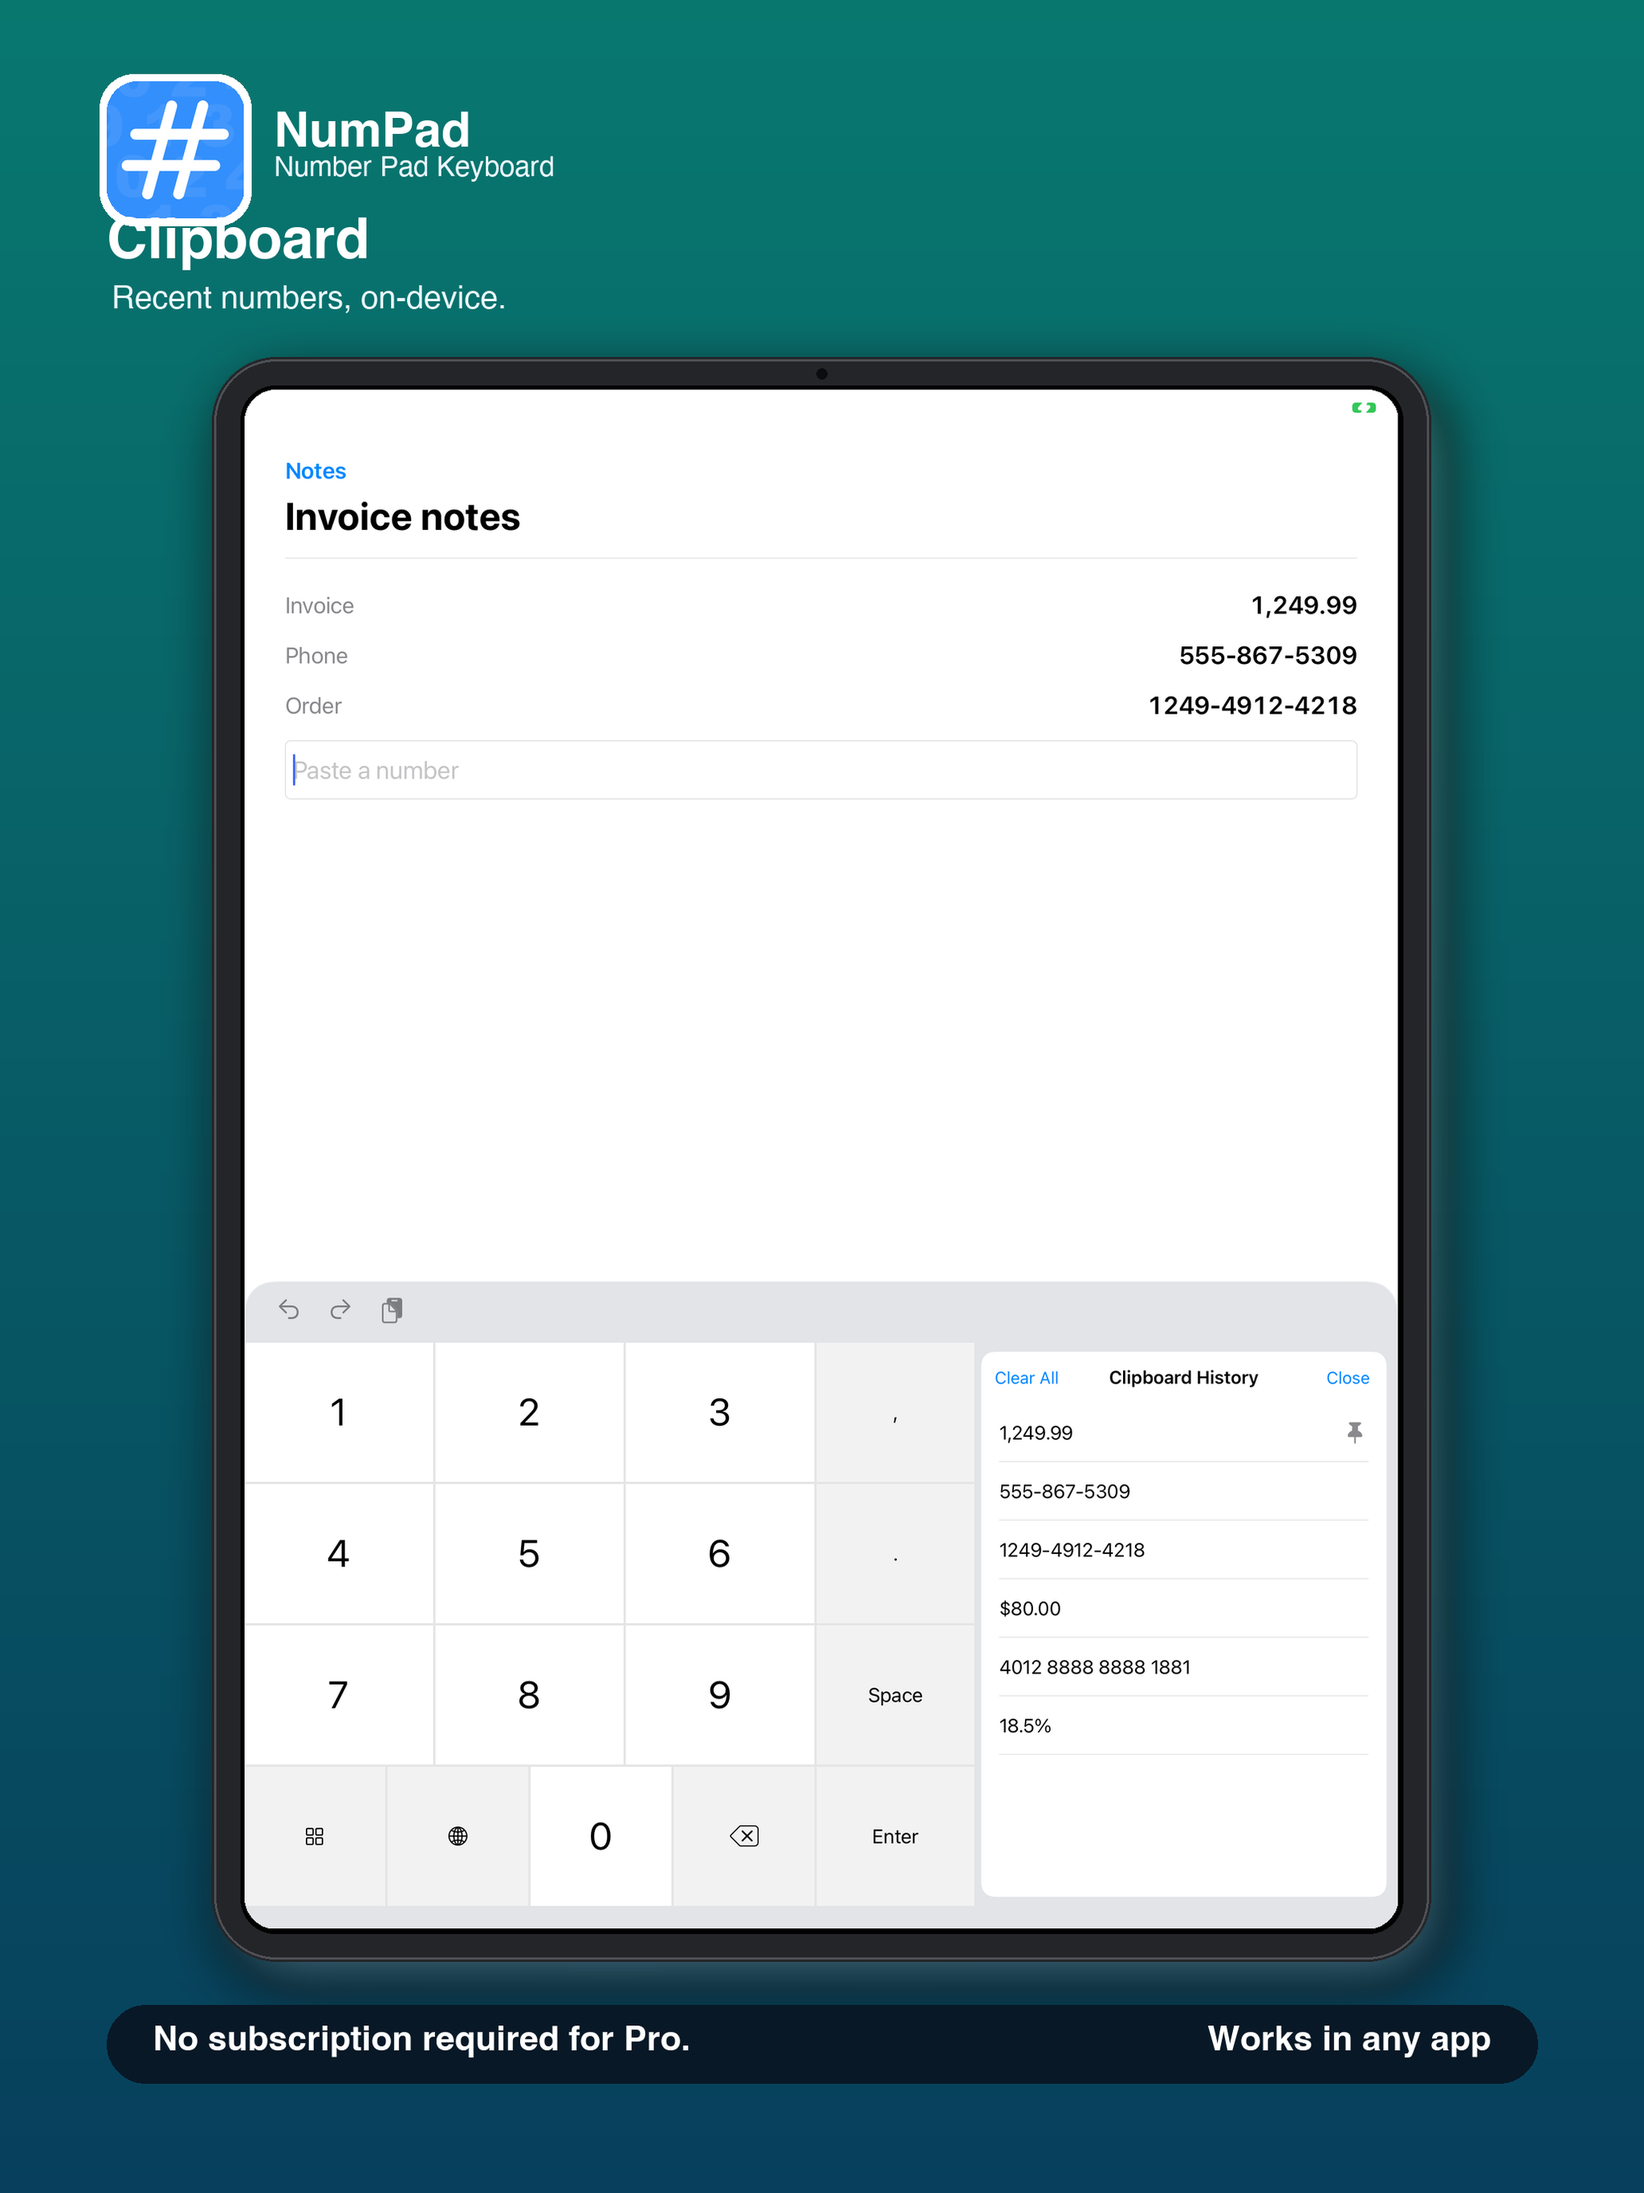
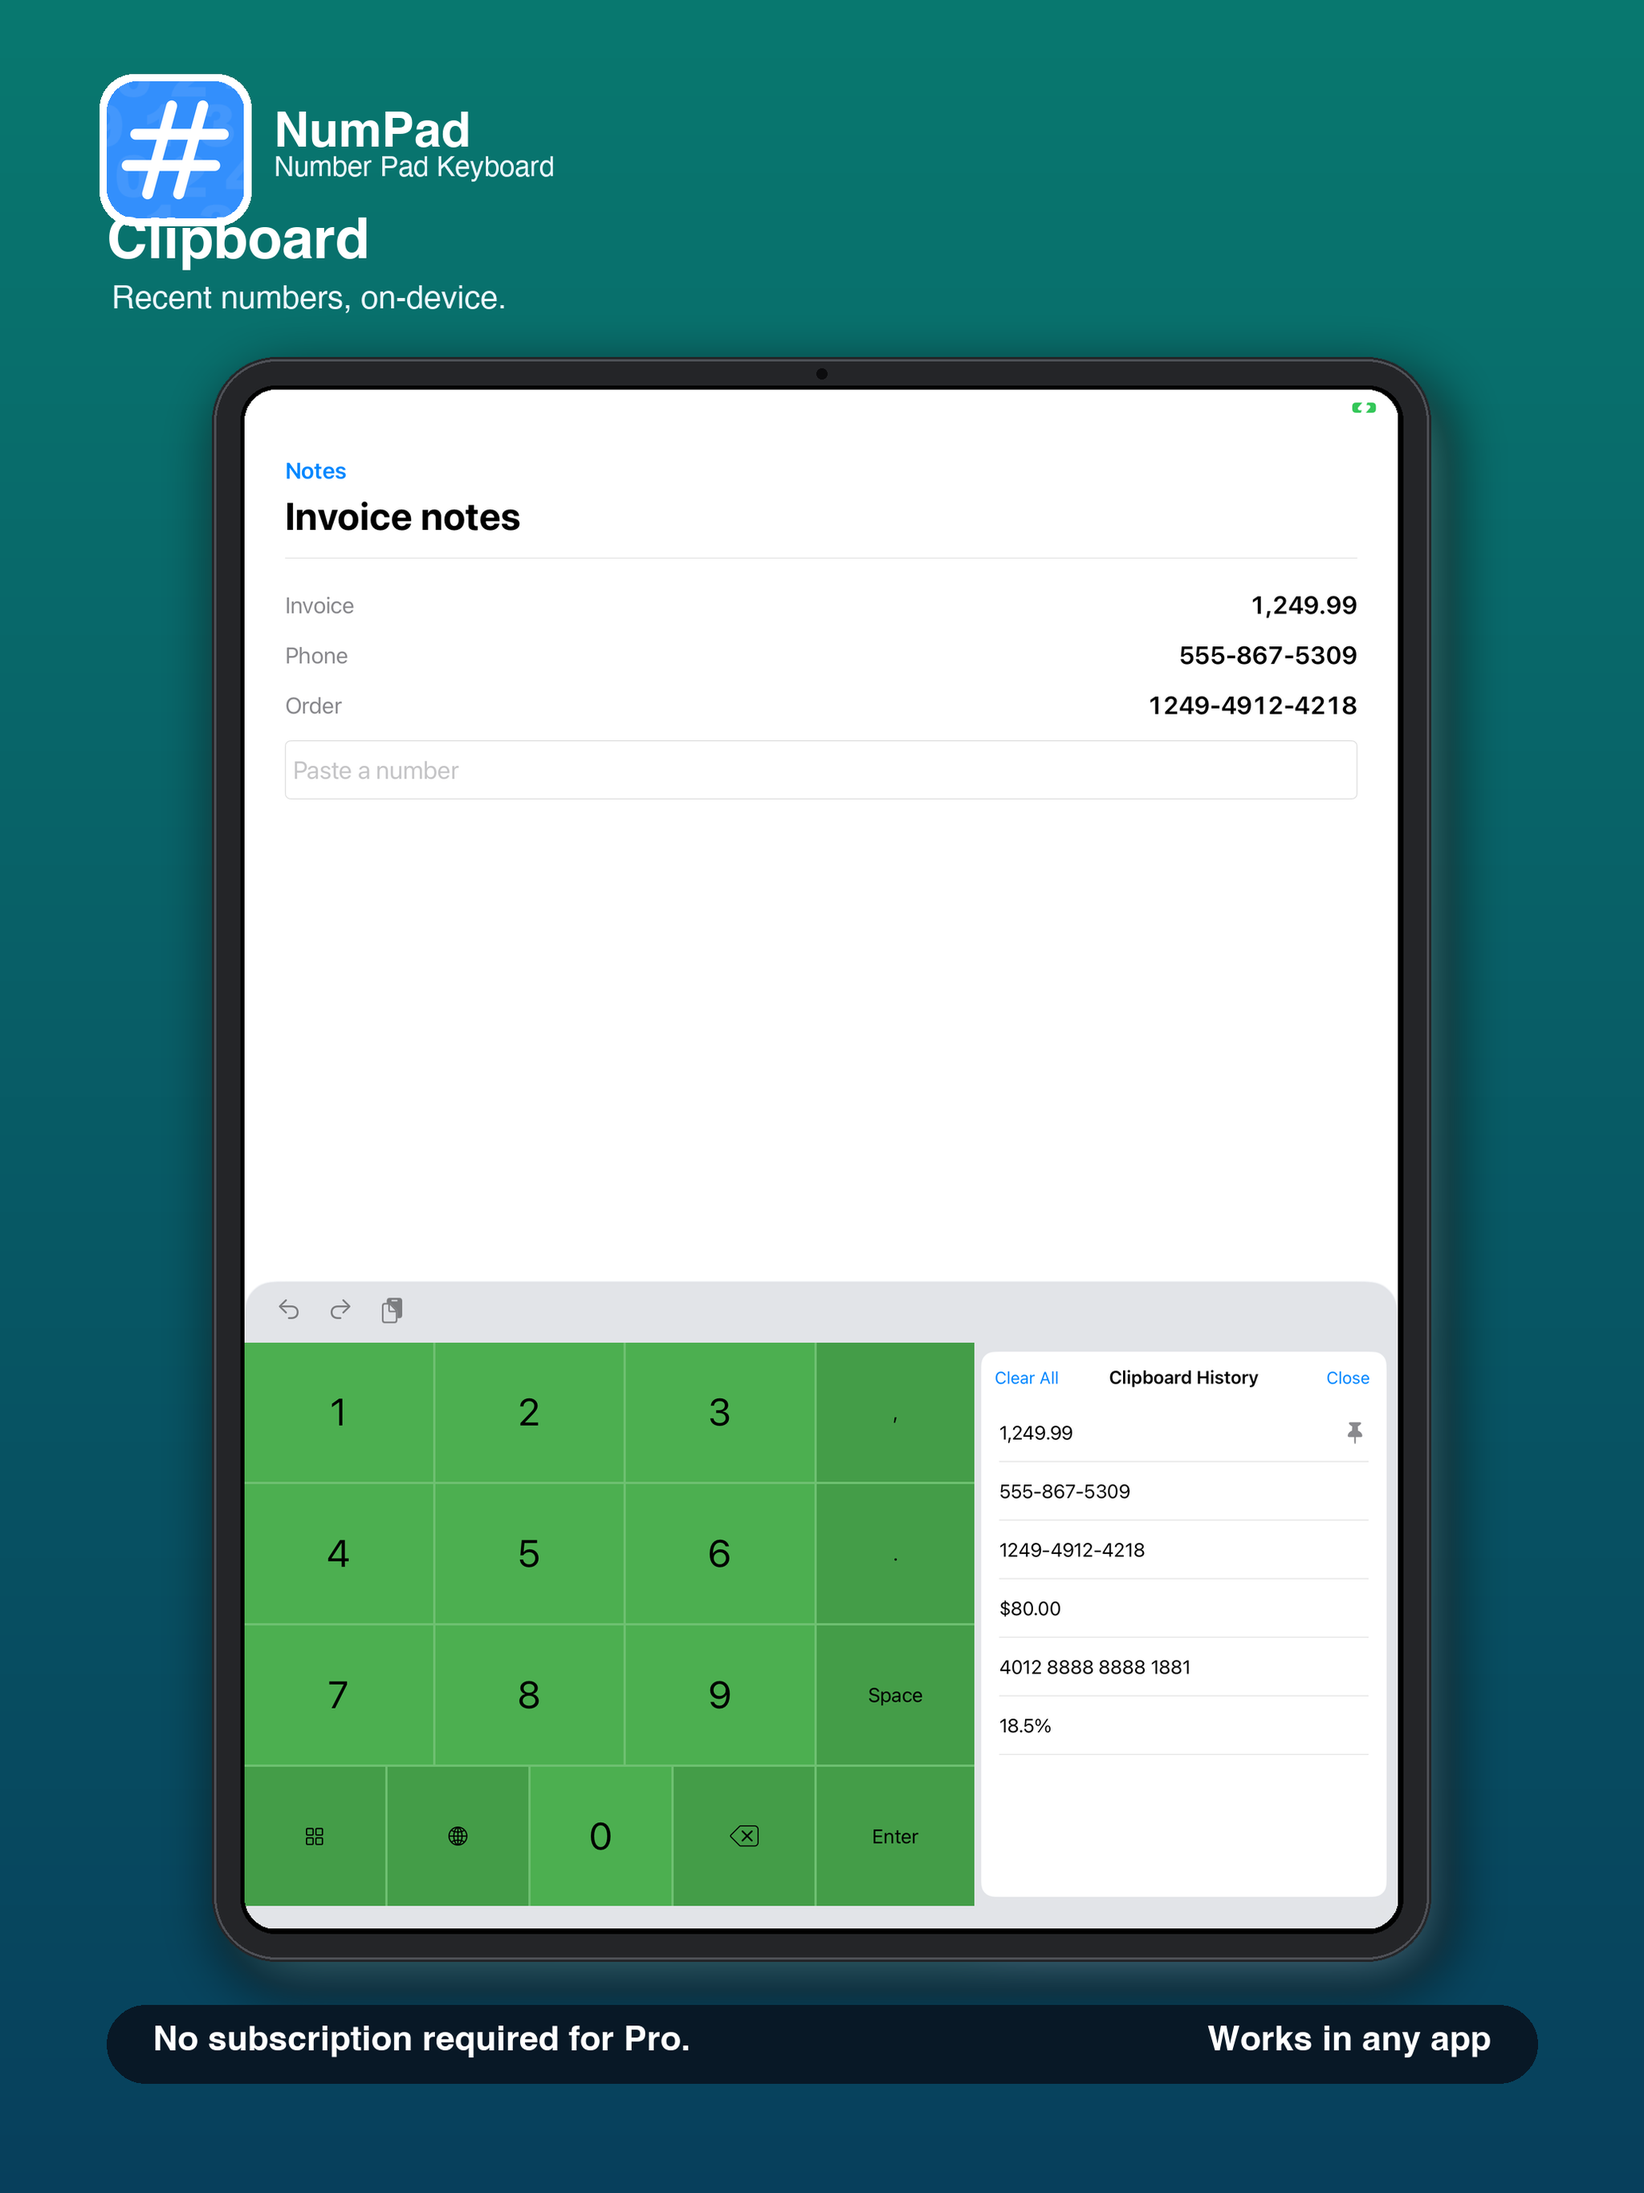
fix(marketing): iPad 02–05 live keyboards in distinct themes
Replace the Packs list with a Finance-pack keyboard-in-use.
Recapture 02 blue, 03 amber (360pt TAX/TIP), 04 green, 05 black.
01 stays gray. 06 stays Deep Purple. No crop-stretch. No ASC.

Changed region(s): [[0.125, 0.5911, 0.5938, 0.8712]]

diff --git a/NumPadUITests/ScreenshotCaptureTests.swift b/NumPadUITests/ScreenshotCaptureTests.swift
@@ -226,7 +226,7 @@ final class IPadAppStoreScreenshotTests: XCTestCase {
 
     func test02_checkout() throws {
         guard let (app, _, numPadActive) = launchNumPadOnTypingSurface(
-            extraDebugRoutes: shotBaseRoutes + ["theme?value=white", "pack?value=default"],
+            extraDebugRoutes: shotBaseRoutes + ["theme?value=blue", "pack?value=default"],
             typingScene: "checkout",
             skipKeyboardEnable: true
         ) else {
@@ -241,7 +241,7 @@ final class IPadAppStoreScreenshotTests: XCTestCase {
 
     func test03_taxtip() throws {
         guard let (app, _, numPadActive) = launchNumPadOnTypingSurface(
-            extraDebugRoutes: shotBaseRoutes + ["theme?value=white", "pack?value=math"],
+            extraDebugRoutes: shotBaseRoutes + ["theme?value=amber", "pack?value=math"],
             typingScene: "dinner",
             skipKeyboardEnable: true
         ) else {
@@ -265,7 +265,7 @@ final class IPadAppStoreScreenshotTests: XCTestCase {
     func test04_clipboard() throws {
         guard let (app, _, numPadActive) = launchNumPadOnTypingSurface(
             extraDebugRoutes: shotBaseRoutes + [
-                "theme?value=white",
+                "theme?value=green",
                 "pack?value=default",
                 "clipboard-seed",
             ],
@@ -288,14 +288,17 @@ final class IPadAppStoreScreenshotTests: XCTestCase {
     }
 
     func test05_packs() throws {
-        // Real Keyboard Packs screen in the container — not a fake Xcode host.
-        let app = launchNumPad(debugRoutes: ["entitle?pro=1"])
-        let packsRow = app.staticTexts["Keyboard Packs"]
-        XCTAssertTrue(packsRow.waitForExistence(timeout: 20), "Home row 'Keyboard Packs' never appeared")
-        packsRow.tap()
-        XCTAssertTrue(app.navigationBars["Keyboard Packs"].waitForExistence(timeout: 10)
-            || app.staticTexts["Finance"].waitForExistence(timeout: 10),
-            "Keyboard Packs screen never appeared")
+        // Live keyboard-in-use with Finance pack. Not the Packs settings list.
+        guard let (app, _, numPadActive) = launchNumPadOnTypingSurface(
+            extraDebugRoutes: shotBaseRoutes + ["theme?value=black", "pack?value=finance"],
+            typingScene: "invoice",
+            skipKeyboardEnable: true
+        ) else {
+            XCTFail("packs: could not raise keyboard")
+            return
+        }
+        XCTAssertTrue(numPadActive, "packs: NumPad keyboard not active")
+        tapNumPadKeys(["1", "2", "4", "9", ".", "9", "9"], in: app)
         Thread.sleep(forTimeInterval: 0.6)
         attachScreenshot(named: "05-packs")
     }
